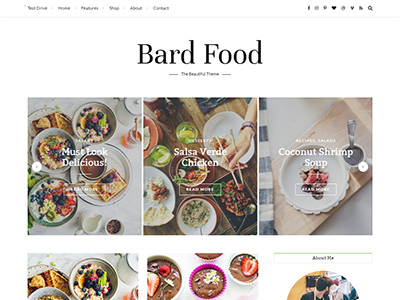
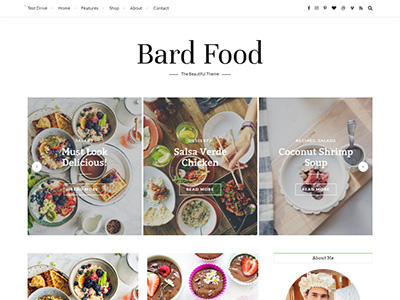
New version of Bard - 1.4.6

Changed region(s): [[0.69, 0.9, 0.9, 1.0]]

diff --git a/style.css b/style.css
@@ -4,7 +4,7 @@ Theme URI: https://wp-royal.com/themes/item-bard-free/
 Author: Royal Flush
 Author URI: http://wp-royal.com/
 Description: Personal and Multi-Author Free WordPress Blog Theme. Perfect for personal, lifestyle, health & fitness, food, cooking, bakery, travel, beauty, fashion, wedding, photography, news, quotes blog, auto blog, small business website and any other kind of amazing blogs. Minimal, elegant & mobile friendly layout with WooCommerce shop (storefront) support will WOW and inspire your visitors. Well documented and very easy to use even for WordPress beginners. Clean and Modern Responsive design will perfectly showcase your content on any device, even on tablet, mobile & retina displays. Very fast, compatibility with many popular plugins & of course translation & RTL (right to left language) ready, coded with best SEO practices. The theme has features like Text & Image logo, Fullscreen Slider, Header image, Instagram slider widget support, footer menu support, GDPR compatibility plugins support and many more, works perfectly with all major drag and drop page builders like Elementor, Beaver Builder, Visual Composer, SiteOrigin, Divi. You just need to write and be awesome! TEMPLATE DEMO: http://wp-royal.com/themes/bard-free/demo/
-Version: 1.4.5
+Version: 1.4.6
 License: GPLv3 or later
 License URI: http://www.gnu.org/licenses/gpl-3.0.en.html
 Text Domain: bard
@@ -2779,8 +2779,36 @@ sup {
   margin-bottom: 20px;
 }
 
-.scrolltop {
+.footer-menu-container,
+.copyright-info,
+.footer-menu-container:after,
+#footer-menu {
   display: inline-block;
+} 
+
+.footer-socials a:last-child {
+  margin: 0;
+}
+
+#footer-menu > li {
+  display: inline-block;
+  margin-left: 5px;
+}
+
+.footer-menu-container {
+  font-size: 13px;
+}
+
+.footer-menu-container:after {
+  content: '|';
+  display: block;
+  float: left;
+  margin-left: 1px;
+  margin-top: -1px;
+}
+
+.scrolltop {
+  display: block;
   font-size: 12px;
   font-weight: 600;
   letter-spacing: 0.5px;

diff --git a/footer.php b/footer.php
@@ -52,8 +52,20 @@
 							<?php esc_html_e( 'Royal-Flush', 'bard' ); ?>
 							</a>
 						</span>
+
+						<?php 
+							wp_nav_menu( array(
+								'theme_location' 	=> 'footer',
+								'menu_id' 		 	=> 'footer-menu',
+								'menu_class' 		=> '',
+								'container' 	 	=> 'nav',
+								'container_class'	=> 'footer-menu-container',
+								'depth'				=> 1,
+								'fallback_cb' 		=> false
+							) );
+						?>
 					</div>
-		
+			
 					<?php if ( bard_options('page_footer_show_scrolltop') === true ) : ?>
 					<span class="scrolltop">
 						<span class="icon-angle-up"></span>

diff --git a/functions.php b/functions.php
@@ -47,8 +47,9 @@ function bard_setup() {
 
 	// This theme uses wp_nav_menu() in two locations
 	register_nav_menus( array(
-		'top' 	=> __( 'Top Menu', 'bard' ),
-		'main' 	=> __( 'Main Menu', 'bard' ),
+		'top' 		=> __( 'Top Menu', 'bard' ),
+		'main' 		=> __( 'Main Menu', 'bard' ),
+		'footer' 	=> __( 'Footer Menu', 'bard' ),
 	) );
 
 	// Switch default core markup for search form, comment form, and comments to output valid HTML5

diff --git a/inc/customizer/dynamic-css.php b/inc/customizer/dynamic-css.php
@@ -248,6 +248,8 @@ $css = '';
 		.rpwwt-post-comments-number,
 		.copyright-info,
 		#page-footer .copyright-info a,
+		.footer-menu-container,
+		#page-footer .footer-menu-container a,
 		.single-navigation span,
 		.comment-notes {
 			color: #a1a1a1;
